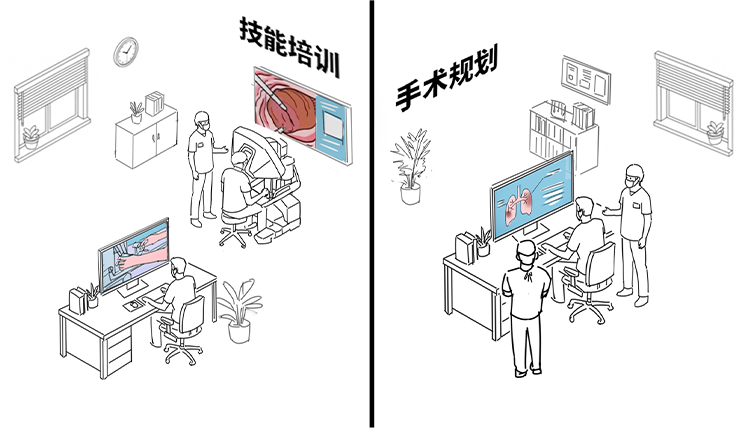
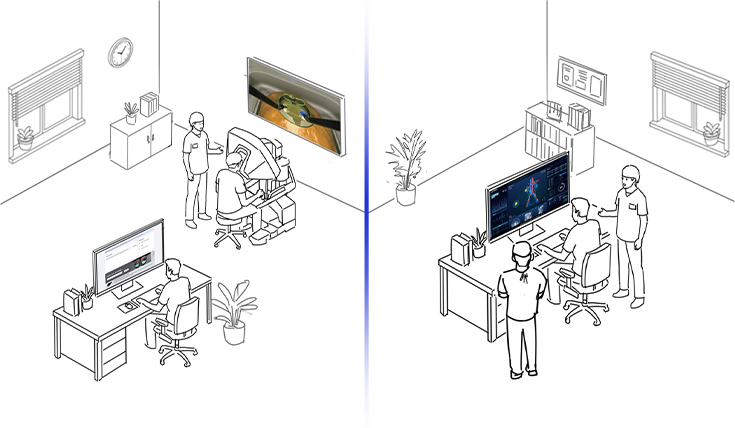
Update homepage stages and bottom breathing glow

diff --git a/src/styles.css b/src/styles.css
@@ -103,6 +103,47 @@ button {
   background: #3445f4;
 }
 
+.home-bottom-breath {
+  position: absolute;
+  left: 7.85%;
+  top: 65.48%;
+  width: 84.3%;
+  height: 24.25%;
+  border: min(0.08vw, 0.14vh) solid rgba(232, 238, 255, 0.96);
+  border-radius: min(2.55vw, 4.53vh);
+  background: linear-gradient(
+    180deg,
+    rgba(255, 255, 255, 0.045),
+    rgba(205, 217, 255, 0.018)
+  );
+  opacity: 0.35;
+  box-shadow:
+    0 0 min(0.7vw, 1.24vh) rgba(220, 228, 255, 0.25),
+    0 0 min(1.5vw, 2.67vh) rgba(154, 169, 255, 0.12),
+    inset 0 0 min(0.8vw, 1.42vh) rgba(235, 240, 255, 0.08);
+  animation: home-bottom-breathe 5s ease-in-out infinite;
+  pointer-events: none;
+}
+
+@keyframes home-bottom-breathe {
+  0%,
+  100% {
+    opacity: 0.35;
+    box-shadow:
+      0 0 min(0.7vw, 1.24vh) rgba(220, 228, 255, 0.25),
+      0 0 min(1.5vw, 2.67vh) rgba(154, 169, 255, 0.12),
+      inset 0 0 min(0.8vw, 1.42vh) rgba(235, 240, 255, 0.08);
+  }
+
+  50% {
+    opacity: 0.7;
+    box-shadow:
+      0 0 min(1.25vw, 2.22vh) rgba(232, 238, 255, 0.48),
+      0 0 min(2.7vw, 4.8vh) rgba(160, 177, 255, 0.28),
+      inset 0 0 min(1.45vw, 2.58vh) rgba(240, 244, 255, 0.16);
+  }
+}
+
 .home-scene,
 .home-integration,
 .home-orbit {
@@ -331,6 +372,11 @@ button {
   *::before,
   *::after {
     scroll-behavior: auto !important;
+  }
+
+  .home-bottom-breath {
+    animation: none;
+    opacity: 0.52;
   }
 
 }

diff --git a/src/app-runtime.test.js b/src/app-runtime.test.js
@@ -168,12 +168,28 @@ test("首页保留阶段时间轴、标题和六个分类标签", async () => {
     "技能培训",
     "手术规划",
     "术中",
+    "术中辅助",
     "远程教学",
-    "术中导航",
     "术后",
-    "手术复盘",
-    "临床研究"
+    "质控管理",
+    "手术复盘"
   ]) {
     assert.match(source, new RegExp(`>${copy}<`));
   }
+});
+
+test("bottom glass container breathes slowly without moving its content", async () => {
+  const source = await readFile(new URL("./App.jsx", import.meta.url), "utf8");
+  const styles = await readFile(new URL("./styles.css", import.meta.url), "utf8");
+
+  assert.match(source, /className="home-bottom-breath"/);
+  assert.match(styles, /\.home-bottom-breath\s*\{[\s\S]*animation:\s*home-bottom-breathe 5s ease-in-out infinite;/);
+  assert.match(styles, /@keyframes home-bottom-breathe/);
+  assert.match(styles, /opacity:\s*0\.35/);
+  assert.match(styles, /opacity:\s*0\.7/);
+  const animationStart = styles.indexOf("@keyframes home-bottom-breathe");
+  const animationEnd = styles.indexOf(".home-scene", animationStart);
+  const animationBlock = styles.slice(animationStart, animationEnd);
+  assert.doesNotMatch(animationBlock, /transform:/);
+  assert.match(styles, /prefers-reduced-motion:\s*reduce[\s\S]*\.home-bottom-breath[\s\S]*animation:\s*none/);
 });

diff --git a/src/App.jsx b/src/App.jsx
@@ -415,6 +415,7 @@ function HomeSurface({ onReady, onError }) {
   return (
     <div className="home-page">
       {renderImage("background", "home-background", "")}
+      <div className="home-bottom-breath" aria-hidden="true" />
       {renderImage("pre", "home-scene home-scene-pre", "术前")}
       {renderImage("intra", "home-scene home-scene-intra", "术中")}
       {renderImage("post", "home-scene home-scene-post", "术后")}
@@ -443,15 +444,15 @@ function HomeSurface({ onReady, onError }) {
       <div className="home-stage-copy home-stage-copy-intra">
         <strong>术中</strong>
         <div className="home-stage-pills">
+          <span>术中辅助</span>
           <span>远程教学</span>
-          <span>术中导航</span>
         </div>
       </div>
       <div className="home-stage-copy home-stage-copy-post">
         <strong>术后</strong>
         <div className="home-stage-pills">
+          <span>质控管理</span>
           <span>手术复盘</span>
-          <span>临床研究</span>
         </div>
       </div>
       <HomeOrbitCanvas />

diff --git a/design-qa.md b/design-qa.md
@@ -4,10 +4,9 @@
 
 - 视觉基准：`G:\2026年工作目录\72直观复星术前术中术后页面\术前术中术后\一级页面\数字化互动260716.jpg`
 - 动画示意：`路径-01.png`、`路径-02.png`
-- 实现截图：`C:\Users\Administrator\AppData\Local\Temp\final-orbit-1920x1080.png`
-- 双箭头最终截图：`C:\Users\Administrator\AppData\Local\Temp\dual-arrow-final.png`
-- 并排对照：`C:\Users\Administrator\AppData\Local\Temp\final-orbit-comparison.png`（左侧原图，右侧实现）
-- 检查状态：首页，动画运行中；视口与原图保持 16:9。
+- 实现截图：`C:\Users\Administrator\AppData\Local\Temp\homepage-updated.png`
+- 并排对照：`C:\Users\Administrator\AppData\Local\Temp\homepage-update-comparison.png`（左侧更新稿，右侧实现）
+- 视口：1280 × 720，16:9；状态：首页，双箭头与底部呼吸光均运行中。
 
 ## 对照结论
 
@@ -18,12 +17,23 @@
 - 两个箭头前方都设置跟随移动的透明缺口，缺口长度依据原图箭头前断线测量值校准。
 - 静态底线约 2px；两个动态段与箭头统一为纯白高亮并带轻微发光；下方产品区域保持静止。
 - 首页三张阶段图、标题、时间轴、文案和右侧用户界面整合图的位置已按用户截图坐标校正。
+- 术前、术中、术后三张透明 PNG 已替换为更新素材，比例、圆角容器和位置与更新稿一致。
+- 六个分类标签已更新为“技能培训、手术规划、术中辅助、远程教学、质控管理、手术复盘”，顺序与更新稿一致。
+- 底部玻璃容器新增 5 秒 `ease-in-out` 呼吸光；仅独立光效层改变透明度和阴影，四个产品图保持静止。该动态光效是用户明确要求的有意差异。
+
+## 聚焦区域检查
+
+- 上半部分聚焦检查：三张新素材的内容、裁切、透明边缘和分栏位置与更新稿一致。
+- 文案聚焦检查：术中与术后四个更新标签完整、无换行、无截断。
+- 底部聚焦检查：弱光与中等光两个时间点均未产生位移、缩放或内容闪烁。
+- 字体与排版、间距节奏、颜色与透明度、图片清晰度、文案内容五项均已检查；没有可执行的 P0/P1/P2 差异。
 
 ## 交互检查
 
 - 右侧“用户界面整合”点击后进入全屏视频。
 - 点击视频画面能够返回一级页面。
 - 页面运行日志没有 JavaScript 错误。
+- “术中辅助”入口可进入全屏视频，点击页面可返回一级页面。
 
 ## 修正记录
 
@@ -33,6 +43,9 @@
 4. 增加四条常驻底线、单个运动高亮段和箭头前方动态缺口。
 5. 轨迹坐标由目测值替换为原图像素测量值。
 6. 增加第二个运动箭头，并将两个运动体固定为半圈间距。
+7. 移除透明擦除带，改为分段绘制箭头前断口，消除半透明方块。
+8. 替换术前、术中、术后三张更新素材，并同步六个分类标签。
+9. 为底部玻璃容器增加 5 秒静态几何呼吸光，产品内容保持不动。
 
 ## 最终结果
 